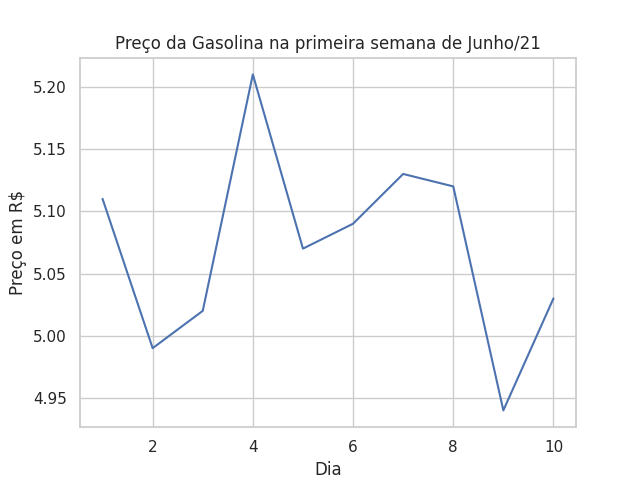
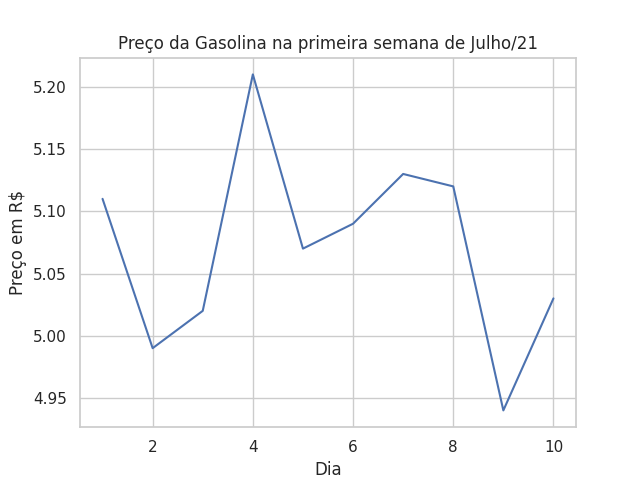
Atualização para exercicio do modulo 19

Changed region(s): [[0.1562, 0.0625, 0.8438, 0.125]]

diff --git a/gasolina.py b/gasolina.py
@@ -1,11 +1,22 @@
 
+# Importando bibliotecas
+
+import seaborn as sns
+import matplotlib.pyplot as plt
+import pandas as pd
+
+#abrindo 'gasolina.csv'
+
+with open('./gasolina.csv', 'r', encoding= 'utf8') as file:
+  data = pd.read_csv('gasolina.csv')
+
+#gerando o grafico de linha
 sns.set(style='whitegrid')
 ax = sns.lineplot(data=data, x='dia', y='venda')
 plt.xlabel('Dia')
 plt.ylabel('Preço em R$')
-plt.title('Preço da Gasolina na primeira semana de Junho/21')
+plt.title('Preço da Gasolina na primeira semana de Julho/21')
 
 plt.savefig('gasolina.png')
 
 plt.show()
-
